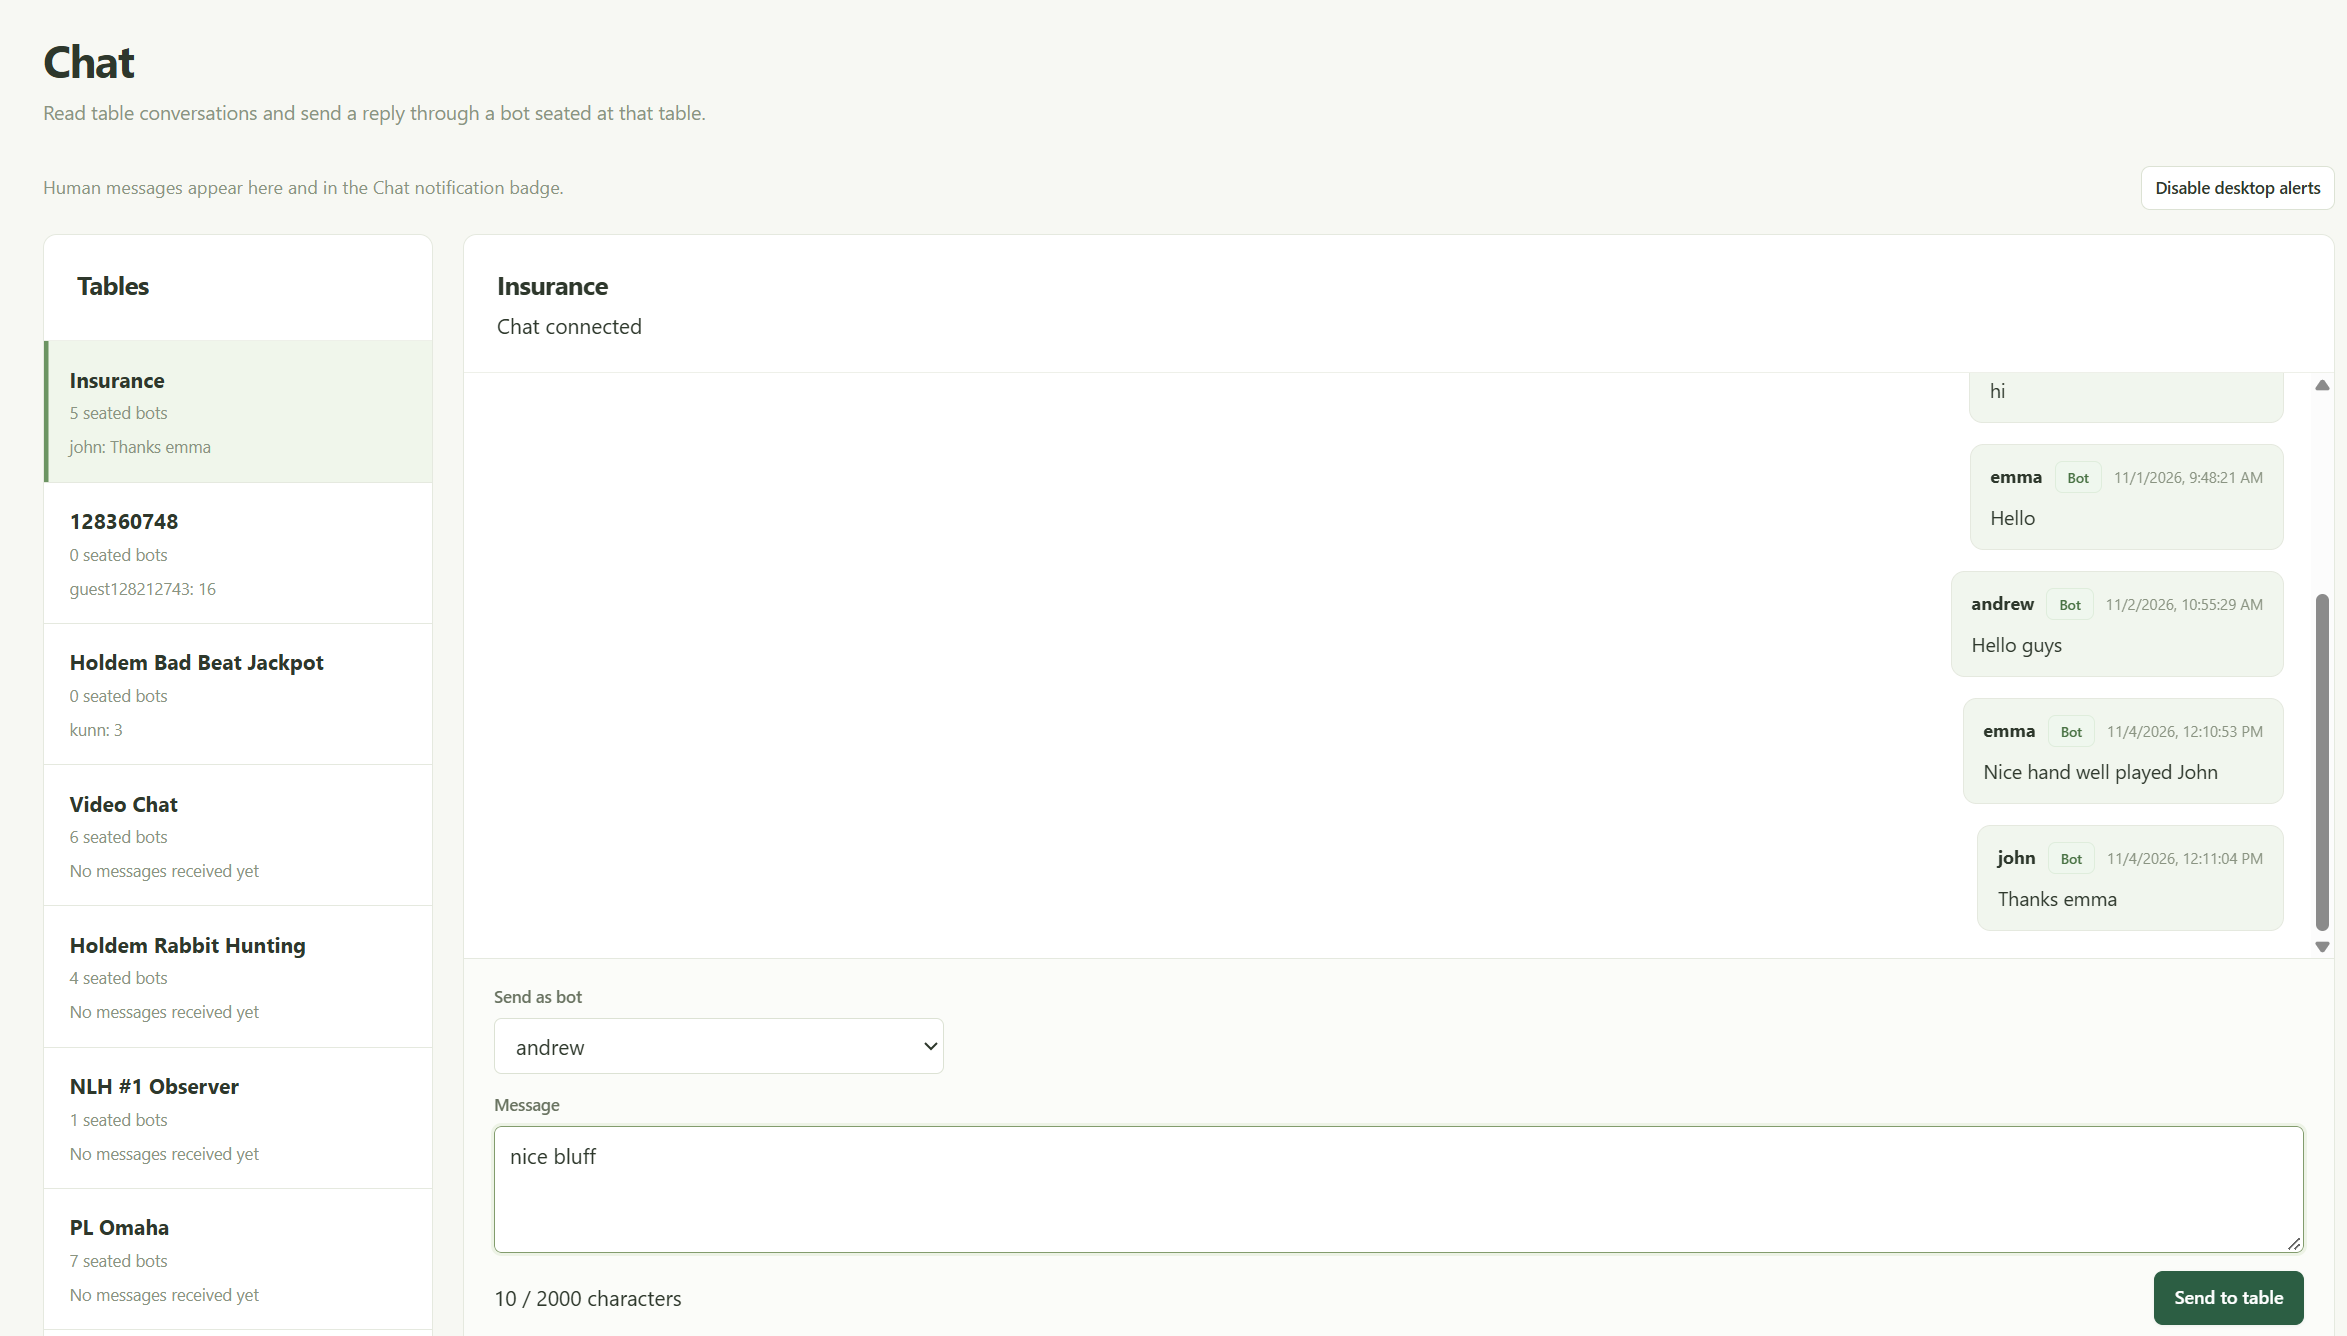
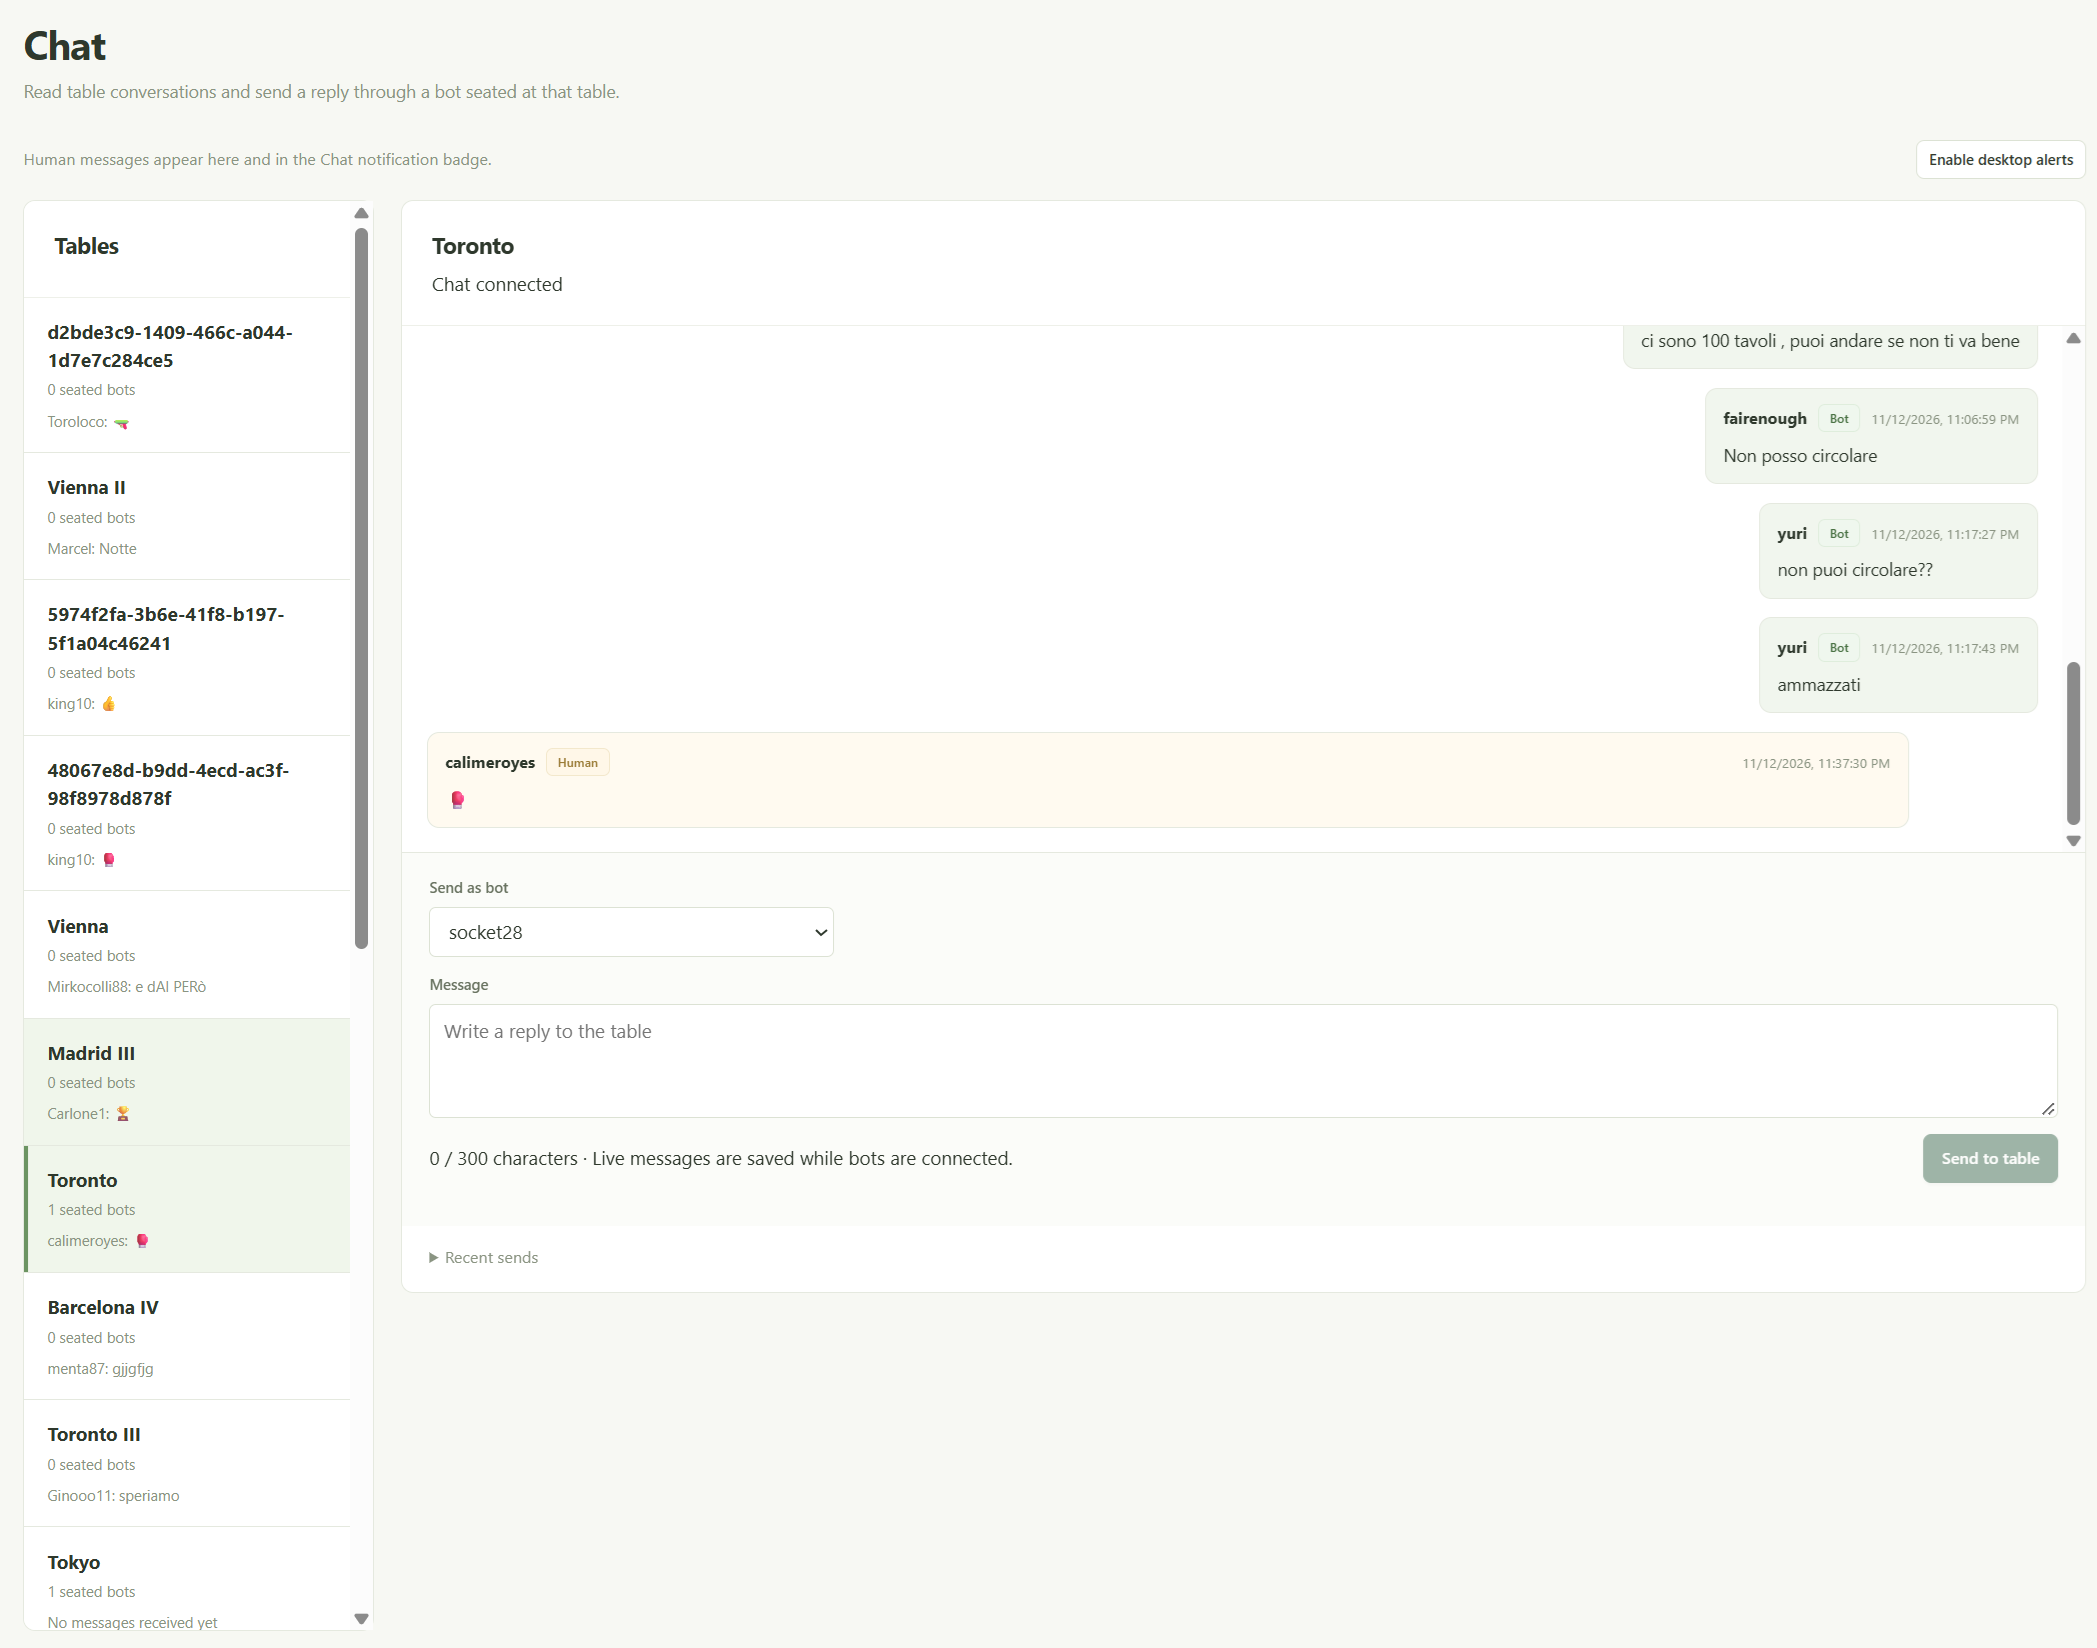
Refresh the chat screenshot on the home page and show it in the README

diff --git a/frontend/home-screens.js b/frontend/home-screens.js
@@ -5,7 +5,7 @@ const screens=[
  {key:'schedule',label:'Weekly schedule',title:'Plan the rhythm of your lobby.',description:'Set targets by day, time and game format. The weekly timeline makes quiet periods, peak hours and entry levels easy to see.',file:'weekly_schedule.png',width:2098,height:1444,alt:'Weekly poker schedule with colored time windows and entry targets across seven days'},
  {key:'lobby',label:'Live lobby',title:'See where play is happening.',description:'Browse cash games, SNGs and MTTs, see seated bots and players, then open an individual table for a closer look.',file:'live_tables.png',width:2346,height:1345,alt:'Live lobby with cash table seat diagrams and registering or running tournaments'},
  {key:'manual',label:'Manual control',title:'Take a closer look. Take the next action.',description:'Watch a selected hero at the table and switch to manual control when needed, with fold, call, raise and bet-sizing controls.',file:'live_table_manual_control_on.png',width:1495,height:1528,alt:'Live poker table showing hero cards and manual fold, call, raise and bet-sizing controls'},
- {key:'chat',label:'Table chat',title:'Keep your team in the conversation.',description:'Read table conversations, receive human-message notifications and send a reply through a bot seated at the selected table.',file:'chat.png',width:2347,height:1336,alt:'Table chat page with a table list, conversation history, bot selector and message composer'},
+ {key:'chat',label:'Table chat',title:'Keep your team in the conversation.',description:'Read table conversations, receive human-message notifications and send a reply through a bot seated at the selected table.',file:'chat.png',width:2097,height:1648,alt:'Table chat page with a table list, conversation history, bot selector and message composer'},
  {key:'accounts',label:'Account mix',title:'Build variety across your accounts.',description:'Configure distributions for strategy profiles, stakes, playing frequency and daily playtime, then apply your preferred mix across accounts.',file:'Accounts_distributions.png',width:2350,height:1372,alt:'Account distributions for player profiles, stake tiers, playing frequency and daily playtime preferences'},
  {key:'replay',label:'Hand replay',title:'Review the play, hand by hand.',description:'Replay recorded hands with cards, bets, stacks and the board. Step through the action to understand the decisions being made.',file:'hand_history_replay.png',width:1494,height:1288,alt:'Hand history replay with player cards, stacks, board, pot and previous/next action controls'}
 ];

diff --git a/frontend/index.html b/frontend/index.html
@@ -35,7 +35,7 @@
   <link rel="stylesheet" href="/home-showcase.css?v=20261104.faq7">
   <script src="/home-showcase.js?v=20261104.faq7" defer></script>
   <link rel="stylesheet" href="/home-screens.css?v=20261104.faq7">
-  <script src="/home-screens.js?v=20261116.shots" defer></script>
+  <script src="/home-screens.js?v=20261116.chat" defer></script>
   <link rel="stylesheet" href="/home-contact.css?v=20261104.faq7">
   <script type="module" src="/home-contact.js?v=20261104.faq7"></script>
 </head>

diff --git a/README.md b/README.md
@@ -128,6 +128,8 @@ Existing pre-Nenad hand histories retain their original customer ownership and a
 
 ## Table chat
 
+![Chat: table list, a conversation with bot and human messages, and the reply box](images/chat.png)
+
 The Chat page lists conversations and currently seated bots for the selected customer/site. Operators can send an explicit message as a selected bot; viewers can read. Incoming messages from known bot accounts are distinguished from human messages. Unread counts are per signed-in user and conversation, with in-app alerts on every page and optional desktop notifications enabled by the user.
 
 The local PokerController worker implements the poker site's chat protocol used in hopperv2. Update both PokerController and ScheduleController, then restart the worker through its seat-preserving recovery flow. A chat heartbeat enables the composer only when that worker is connected. The queue pins each request to the selected entry and worker epoch; duplicate request IDs do not send twice. A send is confirmed by its chat echo. Interrupted or unconfirmed sends are never automatically retried. History does not generate new-message notifications.
